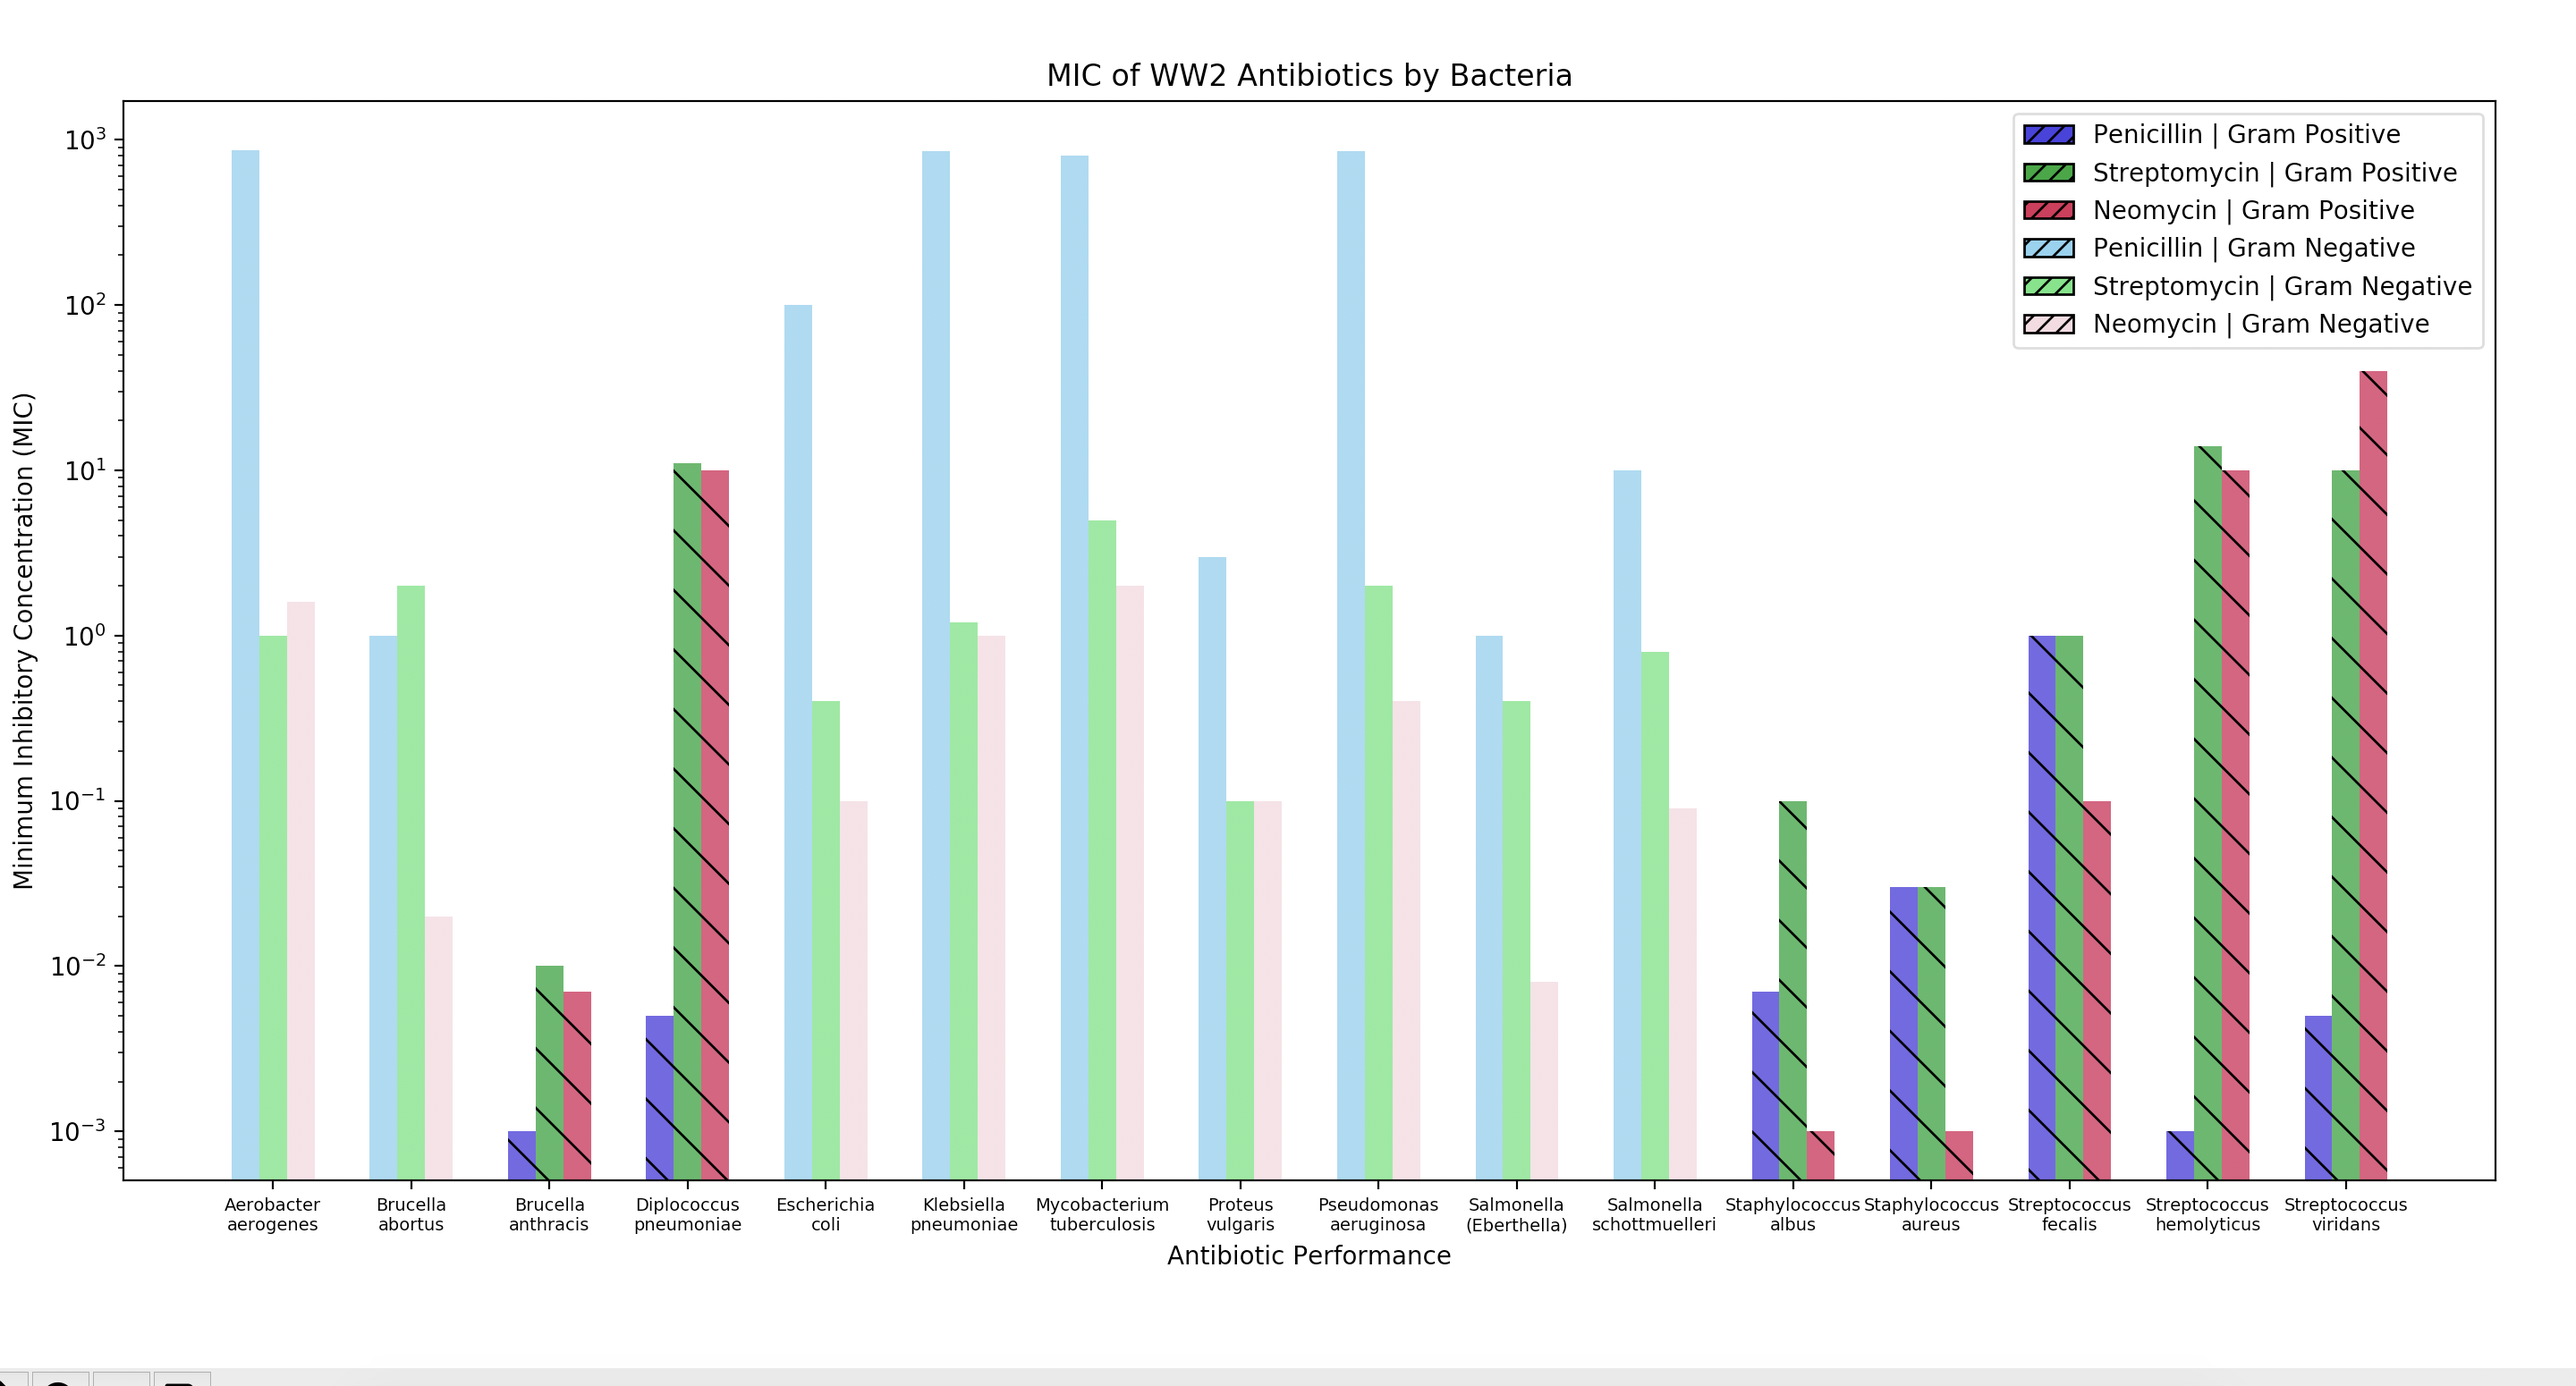
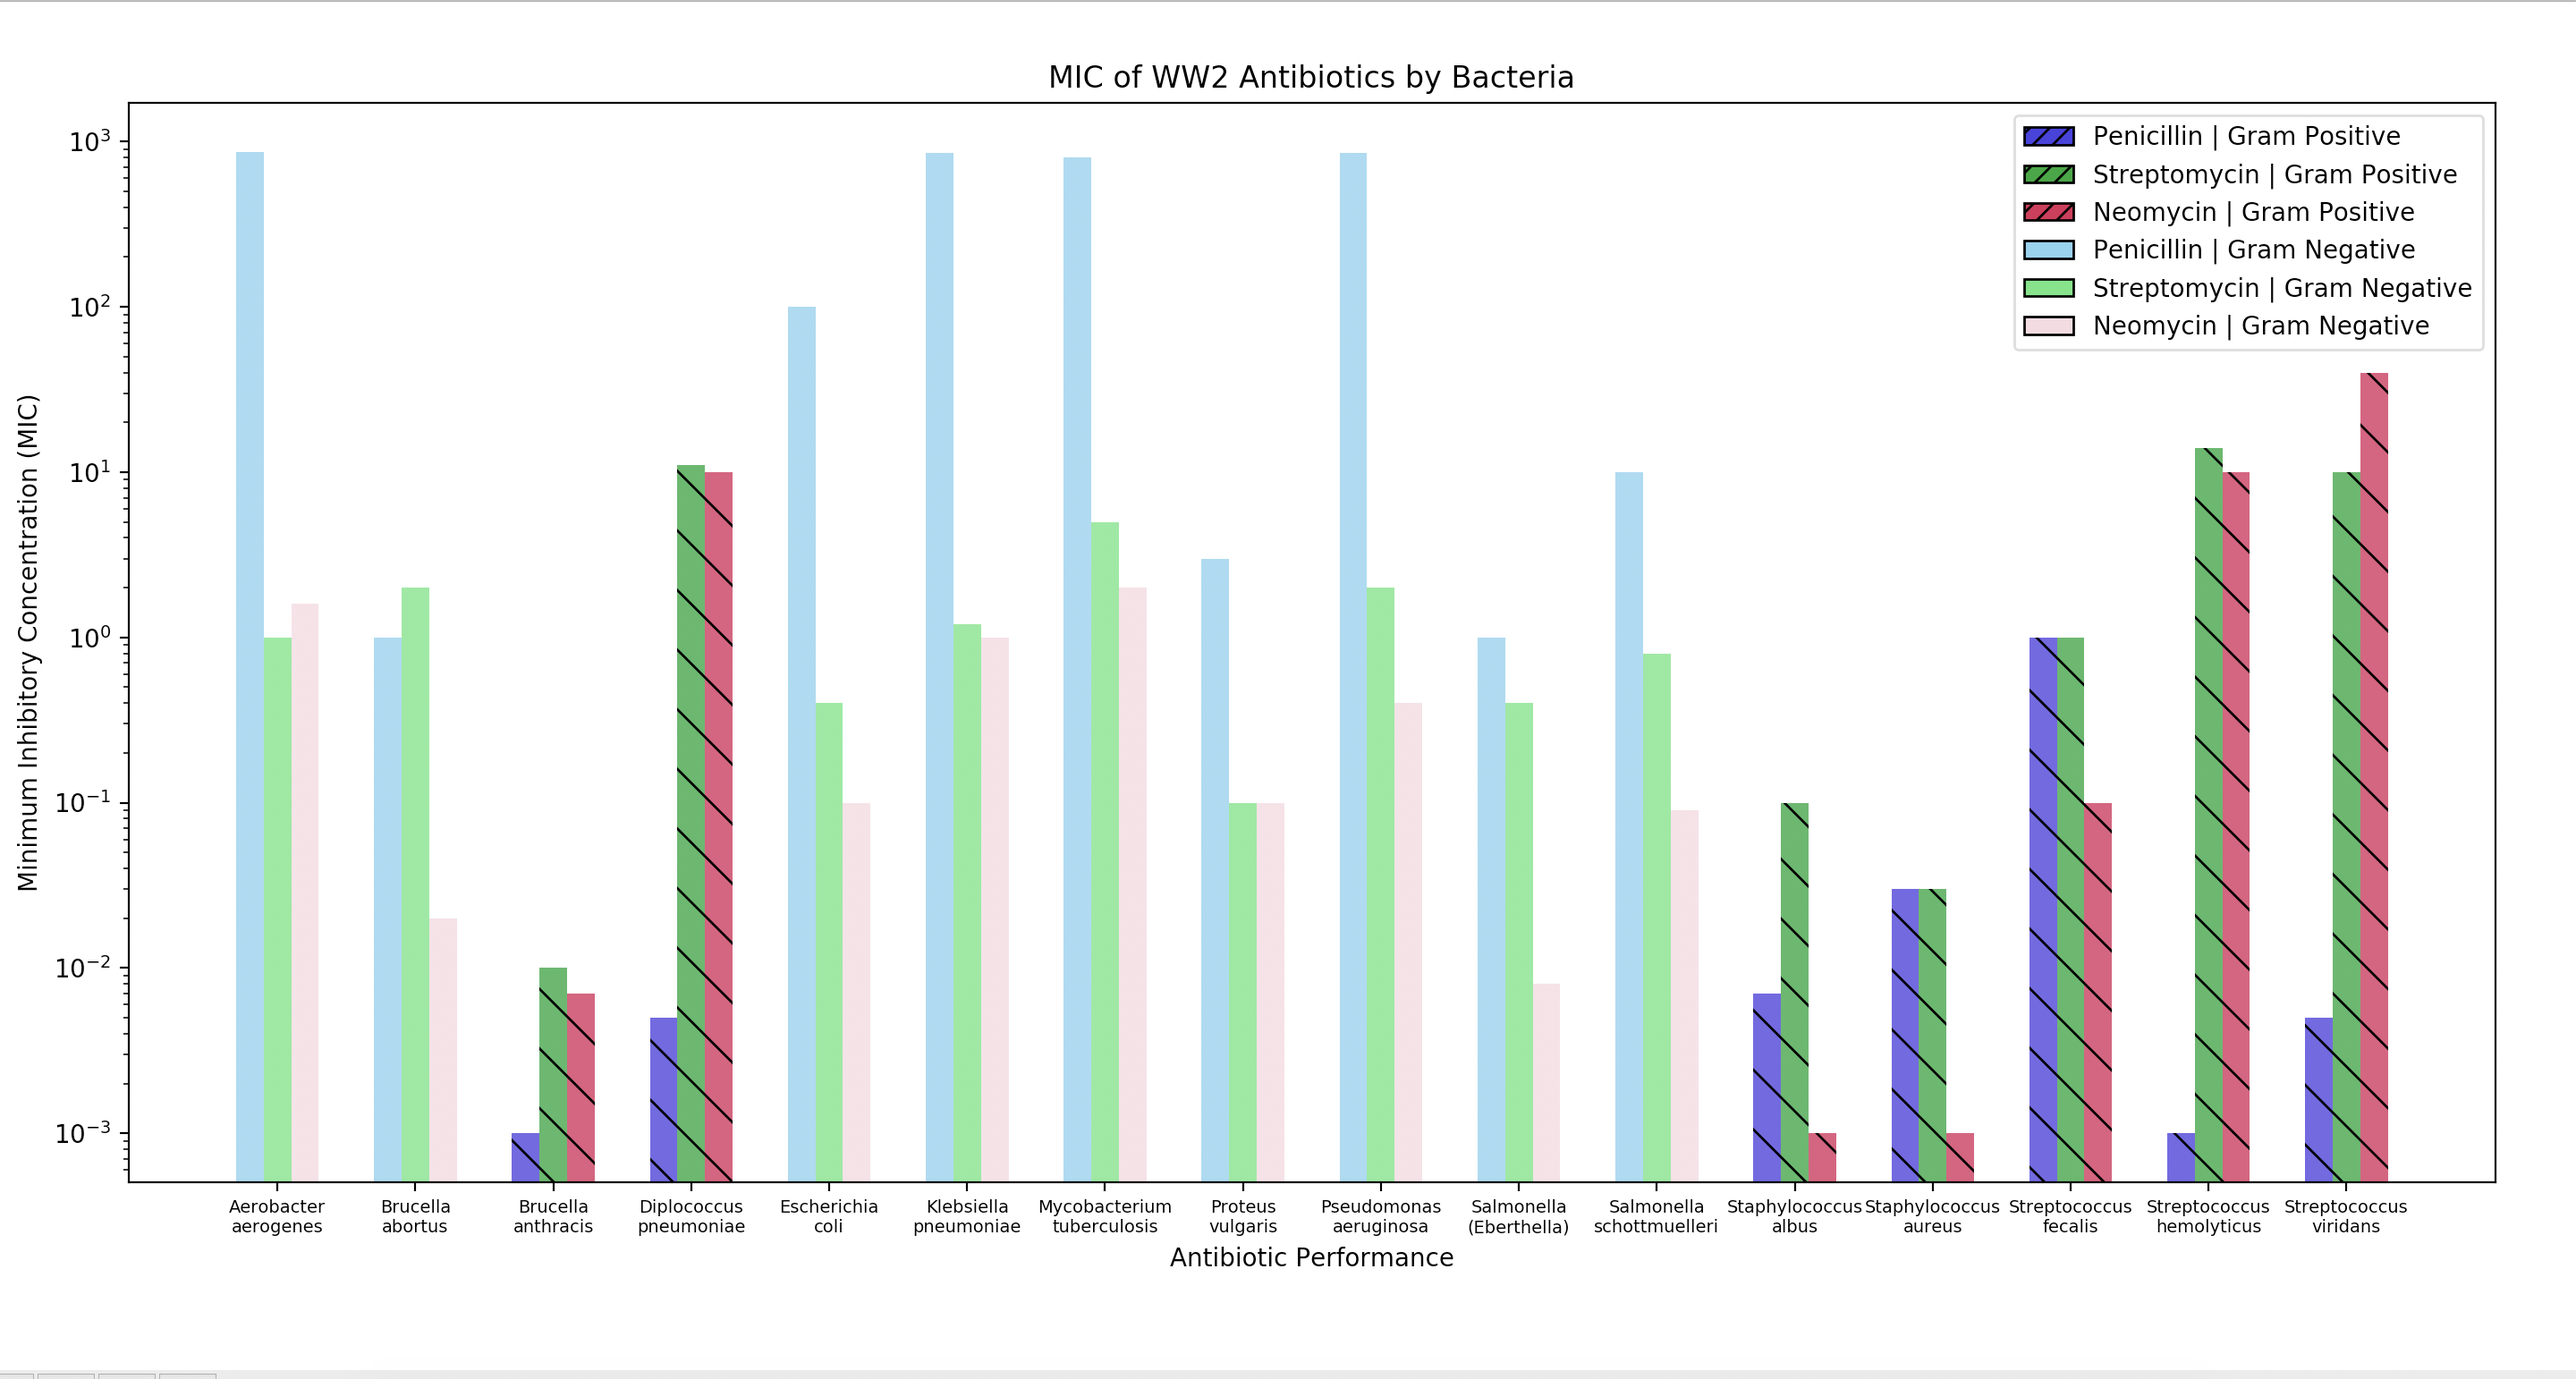
fixed graph

diff --git a/396hw1.py b/396hw1.py
@@ -103,9 +103,9 @@ plt.xticks(index + bar_width, bacteria)
 red_patch = mpatches.Patch(facecolor='#3B1DDA',edgecolor='black',hatch='///', label='Penicillin | Gram Positive')
 blue_patch = mpatches.Patch(facecolor='#149E2B',edgecolor='black',hatch='///',label='Streptomycin | Gram Positive')
 green_patch = mpatches.Patch(facecolor='#D11548',edgecolor='black',hatch='///', label='Neomycin | Gram Positive')
-red_patch2 = mpatches.Patch(facecolor='#7BC9ED',edgecolor='black',hatch='///', label='Penicillin | Gram Negative')
-blue_patch2 = mpatches.Patch(facecolor='#57E66F',edgecolor='black',hatch='///',label='Streptomycin | Gram Negative')
-green_patch2 = mpatches.Patch(facecolor='#F4D1DB',edgecolor='black',hatch='///', label='Neomycin | Gram Negative')
+red_patch2 = mpatches.Patch(facecolor='#7BC9ED',edgecolor='black', label='Penicillin | Gram Negative')
+blue_patch2 = mpatches.Patch(facecolor='#57E66F',edgecolor='black',label='Streptomycin | Gram Negative')
+green_patch2 = mpatches.Patch(facecolor='#F4D1DB',edgecolor='black', label='Neomycin | Gram Negative')
 
 
 plt.legend(handles=[red_patch, blue_patch, green_patch,red_patch2, blue_patch2, green_patch2])

diff --git a/minimalist.py b/minimalist.py
@@ -1,0 +1,57 @@
+import numpy as np
+import matplotlib.pyplot as plt
+import matplotlib.patches as mpatches
+ 
+
+f=open("minimalist.csv","r")
+heights=[]
+names=[]
+next(f)
+for line in f:
+	# print(line)
+	attributes=line.split(",")
+	names.append(attributes[0].replace("\n",""))
+	heights.append(int(attributes[1].replace("\n","")))
+
+heights=tuple(heights)
+names=tuple(names)
+print(heights)
+print(names)
+# data to plot
+n_groups = 13
+
+ 
+# create plot
+fig, ax = plt.subplots()
+index = np.arange(n_groups)
+bar_width = 0.6
+opacity = 0.8
+ 
+rects1 = plt.bar(index, heights,
+alpha=opacity,
+color="blue",
+label='River Name')
+
+
+
+
+
+
+
+
+plt.xlabel('River')
+plt.ylabel('River Length')
+plt.title('Longest rivers')
+plt.xticks(index + bar_width, names)
+
+
+
+
+plt.legend()
+
+# for tick in ax.xaxis.get_major_ticks():
+#    tick.label.set_fontsize(7) 
+# ax.set_yscale('log')
+ 
+plt.tight_layout()
+plt.show()
